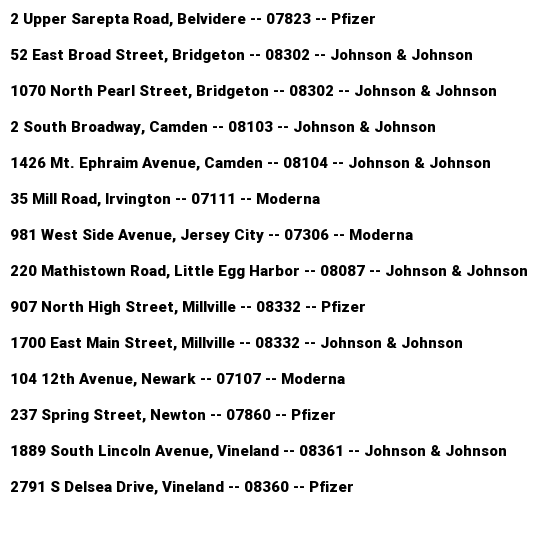
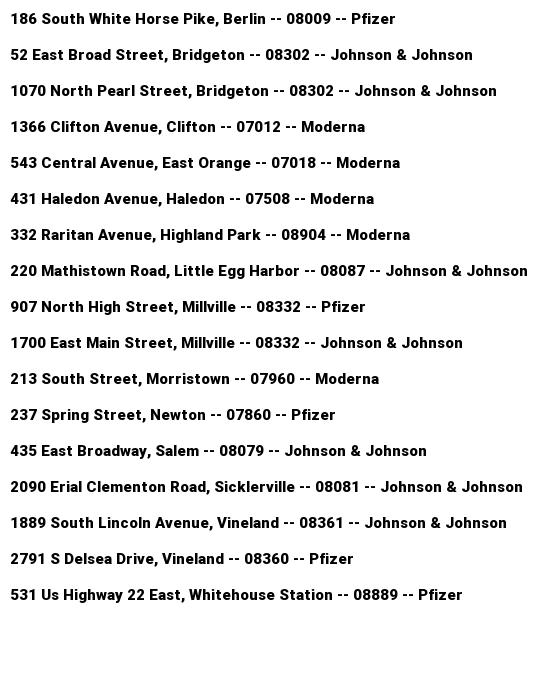
Added new zips to rite aid store search

Changed region(s): [[0.0, 0.3339, 0.9582, 0.9107], [0.0, 0.0, 0.8964, 0.3036], [0.68, 0.6982, 0.9582, 0.7286]]

diff --git a/Bots/RiteAid.py b/Bots/RiteAid.py
@@ -115,6 +115,6 @@ while True:
 
     if (time.time() - Tweet_Timer > 250 or Tweet_Timer == 0 or cur_open > lastOpen+3) and newOpenings == True:
         api.update_with_media(imagePath, status)
-        print('{0} stores available'.format(cur_open))
+        print('{0} / {1} stores are showing some availablity.'.format(cur_open, len(nj_stores)))
         Tweet_Timer = time.time()
         lastOpen = cur_open

diff --git a/Bots/GetRideAidStores.py b/Bots/GetRideAidStores.py
@@ -37,7 +37,7 @@ def getStoreInfo():
 
     stores = []
 
-    for x in ['08807','08723','Atlantic City', 'Vineland','Sparta','Hoboken','07728','07676','07040','08101',]:
+    for x in ['07848','07052','08826','08880','08504','08857','07728','08730','07722','08527','08015','08053','08037','08758','08740','08342','08221','08311','08210','08741']:
 
 
         params = (
